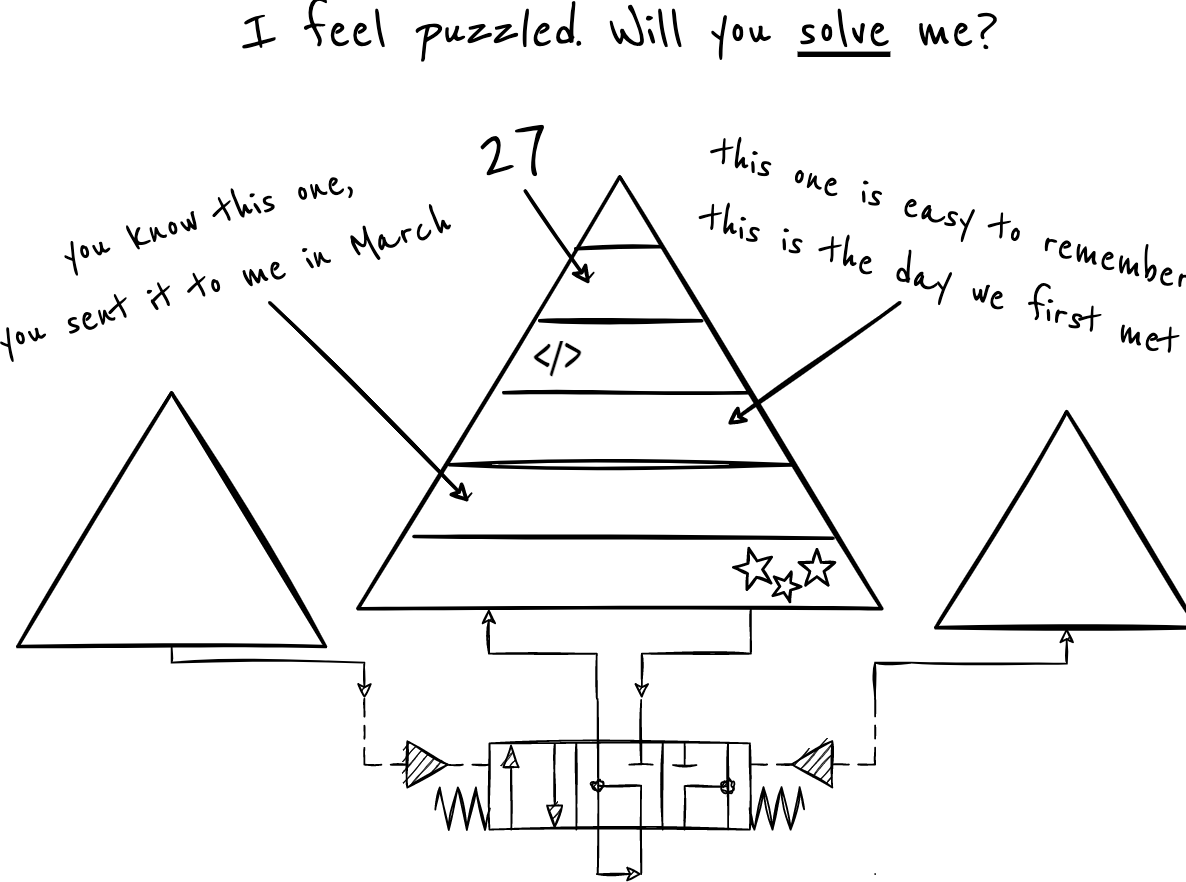
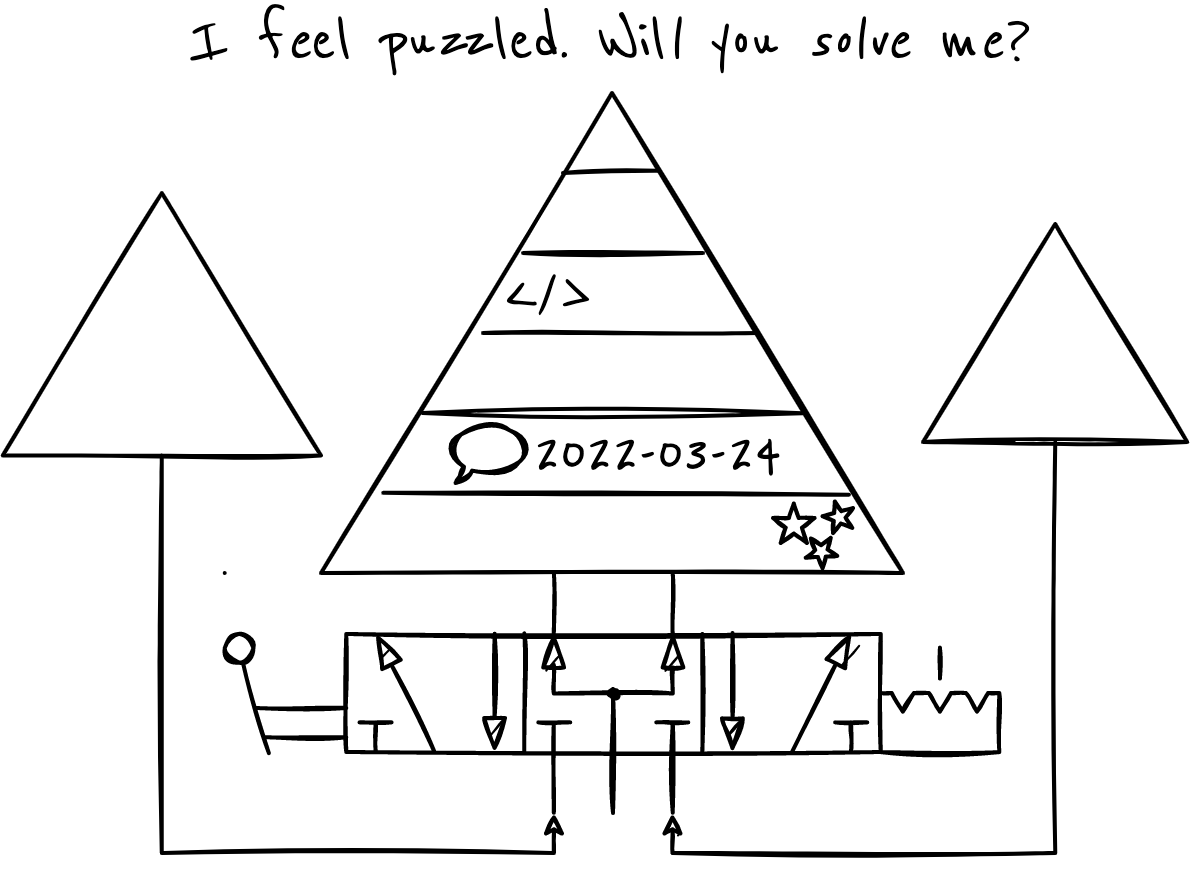
Updated wall drawings

diff --git a/src/scenes/Combination.js b/src/scenes/Combination.js
@@ -2,13 +2,13 @@ import { useEffect, useContext, useCallback } from "react";
 
 import Wall from "../objects/Wall";
 import CombinationLock from "../objects/CombinationLock";
+import WallDrawingPyramids from "../assets/Wall-Drawing-Pyramids.png";
 
 import { GameStateContext } from "../App";
 import { MessageContext } from "../App";
 import { LocationChangeContext } from "../App";
 
 const Combination = () => {
-  // TODO: Add pyramids around combination lock
   const navigate = useContext(LocationChangeContext);
 
   useEffect(() => {
@@ -25,7 +25,8 @@ const Combination = () => {
       }
       updateGameState("combination", "code", code);
       if (code === "111111111111111111111") {
-        // TODO: Replace code
+        // TODO: Find a place for the two digit code
+        // TODO: Replace code: "1 xx 492 9384 97316 804719"
         updateMessage("You hear something clicking");
         updateGameState("combination", "isPuzzleSolved", true);
       }
@@ -39,6 +40,19 @@ const Combination = () => {
         styles={{ color: "hsl(63, 19%, 46%)" }}
         onClick={() => {
           navigate("/combination-room");
+        }}
+      />
+      <img
+        alt=""
+        src={WallDrawingPyramids}
+        style={{
+          position: "absolute",
+          height: "78%",
+          top: "45.6%",
+          left: "47.8%",
+          transform: "translate(-50%, -50%)",
+          opacity: gameState.combinationRoom.isSwitchOn ? 1 : 0.3,
+          pointerEvents: "none",
         }}
       />
       <CombinationLock

diff --git a/src/scenes/CombinationRoom.js b/src/scenes/CombinationRoom.js
@@ -8,13 +8,13 @@ import CombinationLock from "../objects/CombinationLock";
 import Switch from "../objects/Switch";
 import PendulumClock from "../objects/PendulumClock";
 import WallDrawing from "../assets/WallDrawing-Screws.png";
+import WallDrawingPyramids from "../assets/Wall-Drawing-Pyramids.png";
 
 import { GameStateContext } from "../App";
 import { MessageContext } from "../App";
 import { LocationChangeContext } from "../App";
 
 const CombinationRoom = () => {
-  // TODO: Add pyramids around combination lock
   const { gameState, updateGameState } = useContext(GameStateContext);
   const updateMessage = useContext(MessageContext);
 
@@ -52,6 +52,19 @@ const CombinationRoom = () => {
           height: "10%",
           top: "32%",
           left: "20.5%",
+          transform: "translate(-50%, -50%)",
+          opacity: gameState.combinationRoom.isSwitchOn ? 1 : 0.3,
+          pointerEvents: "none",
+        }}
+      />
+      <img
+        alt=""
+        src={WallDrawingPyramids}
+        style={{
+          position: "absolute",
+          height: "16%",
+          top: "54.1%",
+          left: "47.3%",
           transform: "translate(-50%, -50%)",
           opacity: gameState.combinationRoom.isSwitchOn ? 1 : 0.3,
           pointerEvents: "none",

diff --git a/src/scenes/DrawingRoom.js b/src/scenes/DrawingRoom.js
@@ -16,7 +16,6 @@ import { InventoryContext } from "../App";
 import { MessageContext } from "../App";
 
 const DrawingRoom = () => {
-  // TODO: Update image
   const navigate = useContext(LocationChangeContext);
   const inventory = useContext(InventoryContext);
   const updateMessage = useContext(MessageContext);
